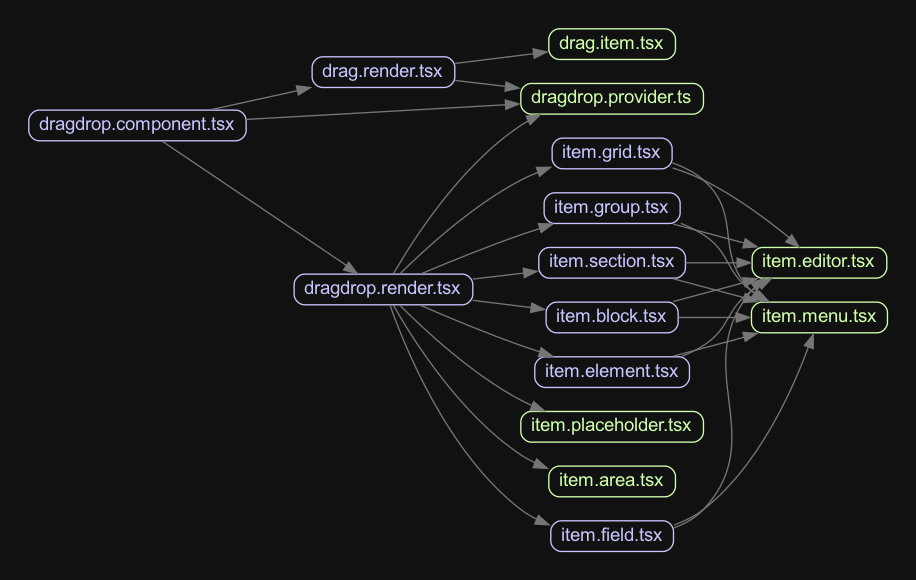
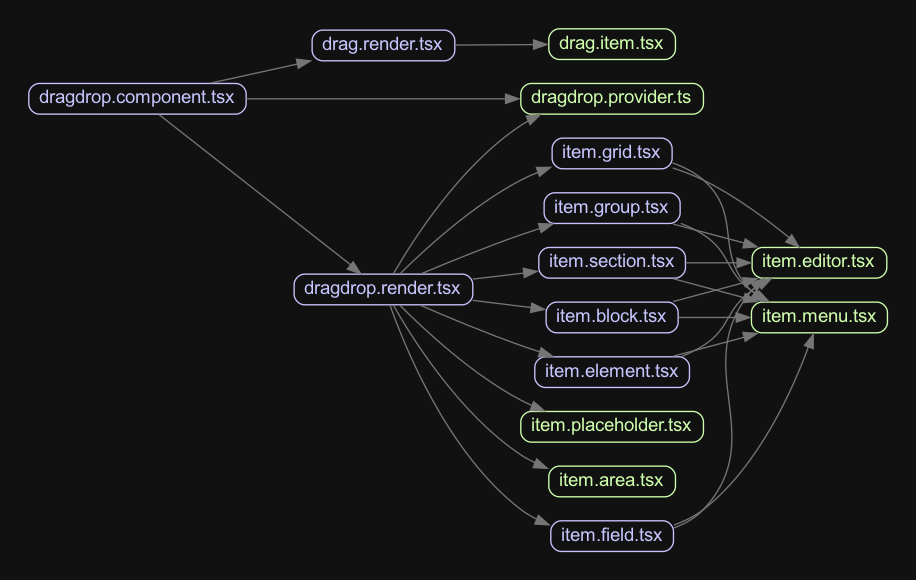
update libs/code

diff --git a/apps/react-app/src/components/dragdrop/dragdrop.render.tsx b/apps/react-app/src/components/dragdrop/dragdrop.render.tsx
@@ -1,59 +1,84 @@
-import React, { ReactNode, memo } from 'react';
+import { memo, FC } from 'react';
 
-//import { useWrapperContext } from '../../hooks';
-//import DragDropContext from './dragdrop.provider';
-
-import ItemBlock from './item.block';
-import ItemField from './item.field';
-import ItemElement from './item.element';
-import ItemPlaceholder from './item.placeholder';
-import ItemGrid from './item.grid';
-import ItemGroup from './item.group';
-import { Field } from '../types';
-import { useWrapperContext } from '../../hooks';
-import DragDropContext from './dragdrop.provider';
 import ItemArea from './item.area';
 import ItemSection from './item.section';
+import ItemBlock from './item.block';
+import ItemPlaceholder from './item.placeholder';
+import ItemField from './item.field';
+import ItemElement from './item.element';
+import ItemGrid from './item.grid';
+import ItemGroup from './item.group';
+import DragDropContext from './dragdrop.provider';
+import { dndHelper } from './helpers';
+import { Field } from '../types';
+import { useWrapperContext } from '../../hooks';
+
+interface RenderItemsProps {
+  items: Field[];
+}
+
+const RenderItems: FC<RenderItemsProps> = ({ items }) => {
+  const ctx = useWrapperContext(DragDropContext);
+
+  return (
+    <>
+      {items.map((item) => {
+        const { dataType, data = [] } = item;
+
+        switch (dataType) {
+          case 'area':
+            return data && (
+              <ItemArea key={item.id} {...item} ctx={ctx}>
+                <RenderItems items={data} />
+              </ItemArea>
+            );
+          case 'section':
+            return data && (
+              <ItemSection key={item.id} {...item} ctx={ctx}>
+                <RenderItems items={data} />
+              </ItemSection>
+            );
+          case 'block':
+            return data && (
+              <ItemBlock key={item.id} {...item} ctx={ctx}>
+                <RenderItems items={data} />
+              </ItemBlock>
+            );
+          case 'placeholder':
+            return data && (
+              <ItemPlaceholder key={item.id} {...item} ctx={''}>
+                <RenderItems items={data} />
+              </ItemPlaceholder>
+            );
+          case 'grid':
+            return <ItemGrid key={item.id} {...item} ctx={''} />;
+          case 'group':
+            return <ItemGroup key={item.id} {...item} ctx={''} />;
+          case 'field':
+            return <ItemField key={item.id} {...item} ctx={ctx} />;
+          case 'element':
+            return <ItemElement key={item.id} {...item} ctx={''} />;
+          default:
+            return null;
+        }
+      })}
+    </>
+  );
+};
 
 function DragDropRender(): JSX.Element | null {
-
   const ctx = useWrapperContext(DragDropContext);
 
   // normalize data
-  const normalizeData = ctx.state.data;
+  const normalizeData = dndHelper.normalizeData(ctx.state.data);
 
-  const renderItems = (items: Field[]): ReactNode[] => {
-    return items.map(item => {
-      const { dataType, data = [] } = item;
-
-      switch (dataType) {
-        case 'area':
-          return data && <ItemArea key={item.id} {...item} ctx={ctx}>{renderItems(data)}</ItemArea>;
-        case 'section':
-          return data && <ItemSection key={item.id} {...item} ctx={ctx}>{renderItems(data)}</ItemSection>;
-        case 'block':
-          return data && <ItemBlock key={item.id} {...item} ctx={ctx}>{renderItems(data)}</ItemBlock>;
-        case 'placeholder':
-          return data && <ItemPlaceholder key={item.id} {...item} ctx={''}>{renderItems(data)}</ItemPlaceholder>;
-        case 'grid':
-          return <ItemGrid key={item.id} {...item} ctx={''} />;
-        case 'group':
-          return <ItemGroup key={item.id} {...item} ctx={''} />;
-        case 'field':
-          return <ItemField key={item.id} {...item} ctx={ctx} />;
-        case 'element':
-          return <ItemElement key={item.id} {...item} ctx={''} />;
-        default:
-          return null;
-      }
-    });
-  };
+  const MemoizedRenderItems = memo(RenderItems);
 
   if (normalizeData === null) {
     return null;
   }
 
-  return <>{renderItems(normalizeData)}</>;
+  return <MemoizedRenderItems items={normalizeData} />;
 }
 
 export default DragDropRender;

diff --git a/libs/code/src/utils/map-to-parent.util.ts b/libs/code/src/utils/map-to-parent.util.ts
@@ -1,30 +1,41 @@
 import { Item } from "./types";
 
-export function mapToParent<T extends Item>(
+function mapToParent<T extends Item>(
   list: T[],
   item: T,
   condition: (item: T) => boolean
-): T[] {
-  if (condition(item) || !item.parentId) {
-    list.push(item);
-    return list;
+): boolean {
+  // If item has no parent, add it to the top-level of the list
+  if (item.parentId == null) {
+    list.push({ ...item });
+    return true;
   }
 
-  const parent = list.find((i) => i.id === item.parentId);
+  // Find the parent element in the list
+  const parent = list.find((i) => i.id == item.parentId);
 
   if (parent) {
+    // If parent is found, add the item to its data property
     if (!parent.data) {
       parent.data = [];
     }
-    parent.data.push(item as Item as T); // Type assertion here
-    return list;
-  }
-
-  for (const child of list) {
-    if (child.data && condition(child)) {
-      mapToParent(child.data, item, condition);
+    parent.data.push({ ...item });
+    return true;
+  } else {
+    // If parent is not found, recursively search in the child elements
+    for (const child of list) {
+      if (condition(child)) {
+        if (!child.data) {
+          child.data = [];
+        }
+        if (mapToParent(child.data as T[], { ...item }, condition)) {
+          return true;
+        }
+      }
     }
+    // If parent is not found in the list, return false
+    return false;
   }
-
-  return list;
 }
+
+export default mapToParent;

diff --git a/apps/react-app/src/components/dragdrop/helpers/dradrop.helper.ts b/apps/react-app/src/components/dragdrop/helpers/dradrop.helper.ts
@@ -1,4 +1,4 @@
-import { Item, UtilsInterface, utils } from '@libs/shared-code';
+import { UtilsInterface, utils } from '@libs/shared-code';
 import { Field } from '../../types';
 
 class DragDropHelper {
@@ -8,14 +8,17 @@ class DragDropHelper {
     this.utils = utils;
   }
 
-  nomalizeData(data: Field[]) {
+  normalizeData(data: Field[]) {
     const cloneData = this.utils.objClone(data);
-    const list: Item[] = [];
+    const list: Field[] = [];
 
-    cloneData.forEach((item: Item) => {
-      return this.utils.mapToParent(list, item, (item) => item.dataType == 'block');
+    cloneData.forEach((item: Field) => {
+      return this.utils.mapToParent<Field>(list, item, (item: Field) => item.dataType == 'block');
     });
+    
+    return list;
   }
+
 }
 
 export const dndHelper = new DragDropHelper(utils);

diff --git a/apps/react-app/src/pages/home/home.index.tsx b/apps/react-app/src/pages/home/home.index.tsx
@@ -1,4 +1,3 @@
-import React from 'react';
 import { DragDrop } from '../../components';
 
 // Example API response
@@ -8,15 +7,16 @@ const apiResponse = [
     name: 'block',
     type: 'div',
     dataType: 'block',
-    data: [
-      {
-        id: 2,
-        name: 'field',
-        type: 'text',
-        dataType: 'field',
-        data: null,
-      },
-    ],
+    data: [],
+    parentId: null
+  },
+  {
+    id: 2,
+    name: 'field',
+    type: 'text',
+    dataType: 'field',
+    data: null,
+    parentId: 1
   },
   {
     id: 3,
@@ -24,6 +24,7 @@ const apiResponse = [
     type: 'text',
     dataType: 'field',
     data: null,
+    parentId: null
   },
 ];
 

diff --git a/apps/react-app/src/components/form/form.render.tsx b/apps/react-app/src/components/form/form.render.tsx
@@ -1,8 +1,8 @@
-import React, { memo } from 'react';
+import React from 'react';
 
-import { useWrapperContext } from '../../hooks';
+//import { useWrapperContext } from '../../hooks';
 
-import FormContext from './form.provider';
+//import FormContext from './form.provider';
 
 import ItemBlock from './item.block';
 import ItemField from './item.field';
@@ -13,7 +13,7 @@ import ItemGroup from './item.group';
 
 
 function FormRender({ data = [] }: { data: any[] }) {
-  const context = useWrapperContext(FormContext);
+  //const _context = useWrapperContext(FormContext);
 
   const renderItems = (items: any[]): React.ReactNode[] => {
     return items.map(item => {

diff --git a/apps/react-app/src/components/dragdrop/drag.render.tsx b/apps/react-app/src/components/dragdrop/drag.render.tsx
@@ -1,7 +1,6 @@
-import React, { memo } from 'react';
 
-import { useWrapperContext } from '../../hooks';
-import DragDropContext from './dragdrop.provider';
+//import { useWrapperContext } from '../../hooks';
+//import DragDropContext from './dragdrop.provider';
 
 import DragItem from './drag.item';
 import { DragField } from '../types';
@@ -10,8 +9,8 @@ interface DragRenderProps {
   data?: DragField[];
 }
 
-function DragRender({ data = [] }: DragRenderProps) {
-  const ctx = useWrapperContext(DragDropContext);
+function DragRender(_props: DragRenderProps) {
+  //const _ctx = useWrapperContext(DragDropContext);
 
   return (
     <>

diff --git a/apps/react-app/src/components/dragdrop/dragdrop.component.tsx b/apps/react-app/src/components/dragdrop/dragdrop.component.tsx
@@ -9,7 +9,6 @@ import DragRender from './drag.render';
 import { DragField, Field } from '../types';
 import { dndReducer } from './reducers';
 import { DndActionType } from './types';
-import { useClickOutside } from '../../hooks';
 
 interface DragDropProps {
   data: Field[];
@@ -101,4 +100,4 @@ export function DragDrop({ data = [], dragFields = [] }: DragDropProps) {
   )
 }
 
-// npx madge src/components/dragdrop/dragdrop.component.tsx --image src/components/dragdrop/dragdrop.graph.png
+// npx madge src/components/dragdrop/dragdrop.component.tsx --image src/components/dragdrop/dragdrop.graph.png --warning

diff --git a/apps/react-app/src/components/dragdrop/hooks/use-item-select.hook.ts b/apps/react-app/src/components/dragdrop/hooks/use-item-select.hook.ts
@@ -1,4 +1,4 @@
-import { useState } from "react";
+
 import { DndActionType, DndContextValue } from "../types";
 //import { useClickOutside } from "../../../hooks";
 
@@ -15,7 +15,7 @@ export function useItemSelect(id: number | string, ctx: DndContextValue) {
   const onClick = (name: keyof typeof DndActionType) => {
     switch (name) {
       case DndActionType.OPEN_EDITING_ITEM:
-        dispatch({
+        !isEditing && dispatch({
           type: name,
           payload: null
         });

diff --git a/libs/code/src/utils/types/utils.type.ts b/libs/code/src/utils/types/utils.type.ts
@@ -1,16 +1,16 @@
 export interface Item {
   id: number | string;
-  parentId?: number | string;
-  data?: Item[];
+  parentId?: number | string | null;
+  data?: Item[] | null;
   // Add additional properties as needed
 }
 
 export interface UtilsInterface {
   objClone<T>(obj: T): T;
   strRandom(prefix?: string, separator?: string): string;
-  mapToParent<T>(
+  mapToParent<T extends Item>(
     list: T[],
     item: T,
     condition: (item: T) => boolean
-  ): T[]
+  ): boolean
 }

diff --git a/libs/code/src/index.ts b/libs/code/src/index.ts
@@ -1,2 +1,12 @@
-export * from './utils';
 export * from './utils/types';
+
+import { UtilsInterface } from './utils/types';
+import objClone from './utils/obj-clone.util';
+import strRandom from './utils/str-random.util';
+import mapToParent from './utils/map-to-parent.util';
+
+export const utils: UtilsInterface = {
+  objClone,
+  strRandom,
+  mapToParent
+};

diff --git a/apps/react-app/src/app.component.tsx b/apps/react-app/src/app.component.tsx
@@ -1,9 +1,10 @@
-import React from 'react';
-//import { utils } from '@libs/shared-code';
+import { utils } from '@libs/shared-code';
 import { RouterProvider } from 'react-router-dom';
 import { router } from './app.router';
 
 function App() {
+
+  console.log(utils.strRandom());
   return <><RouterProvider router={router} /></>
 }
 

diff --git a/apps/react-app/src/components/dragdrop/item.element.tsx b/apps/react-app/src/components/dragdrop/item.element.tsx
@@ -1,4 +1,3 @@
-import React from 'react';
 
 import ItemMenu from './item.menu';
 import ItemEditor from './item.editor';
@@ -8,7 +7,7 @@ type ItemElementProps = Field & {
   ctx: string;
 };
 
-function ItemElement(props: ItemElementProps) {
+function ItemElement(_props: ItemElementProps) {
 
   return (
     <>
